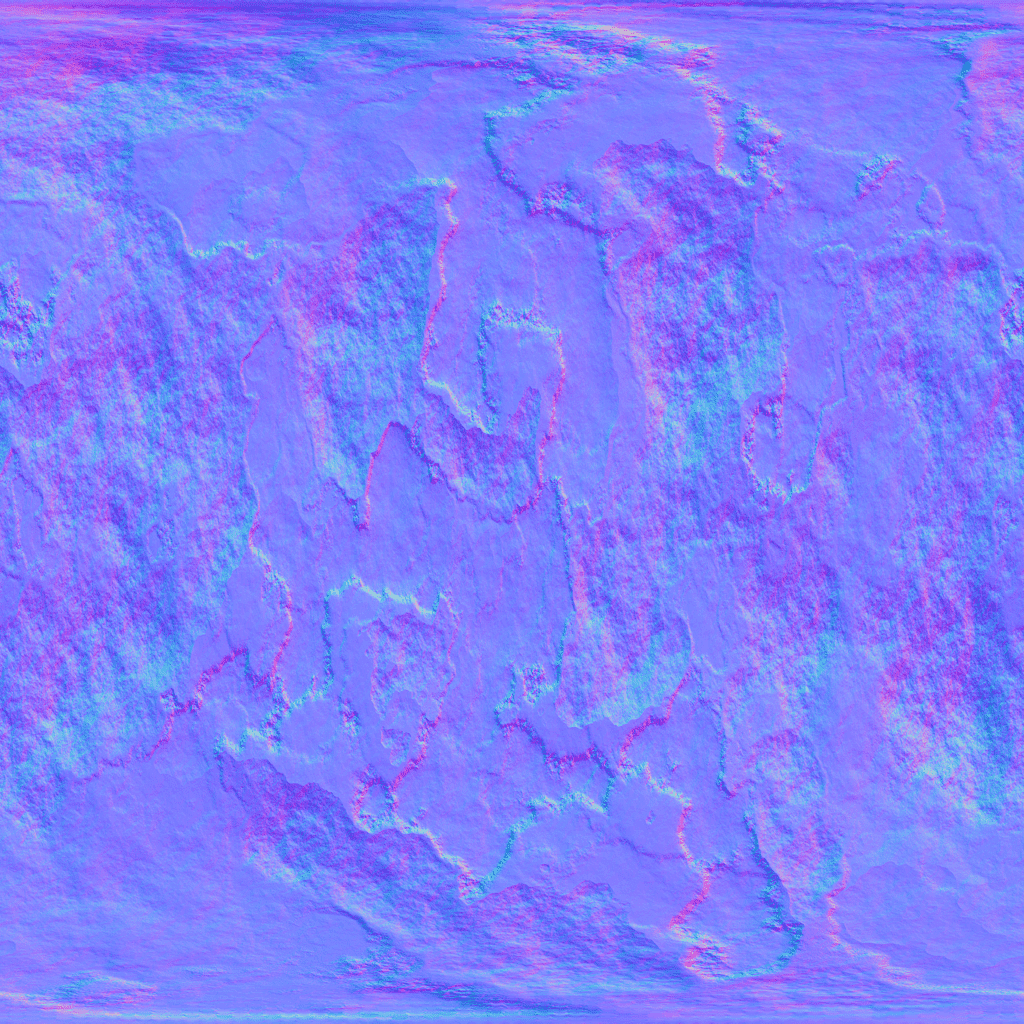
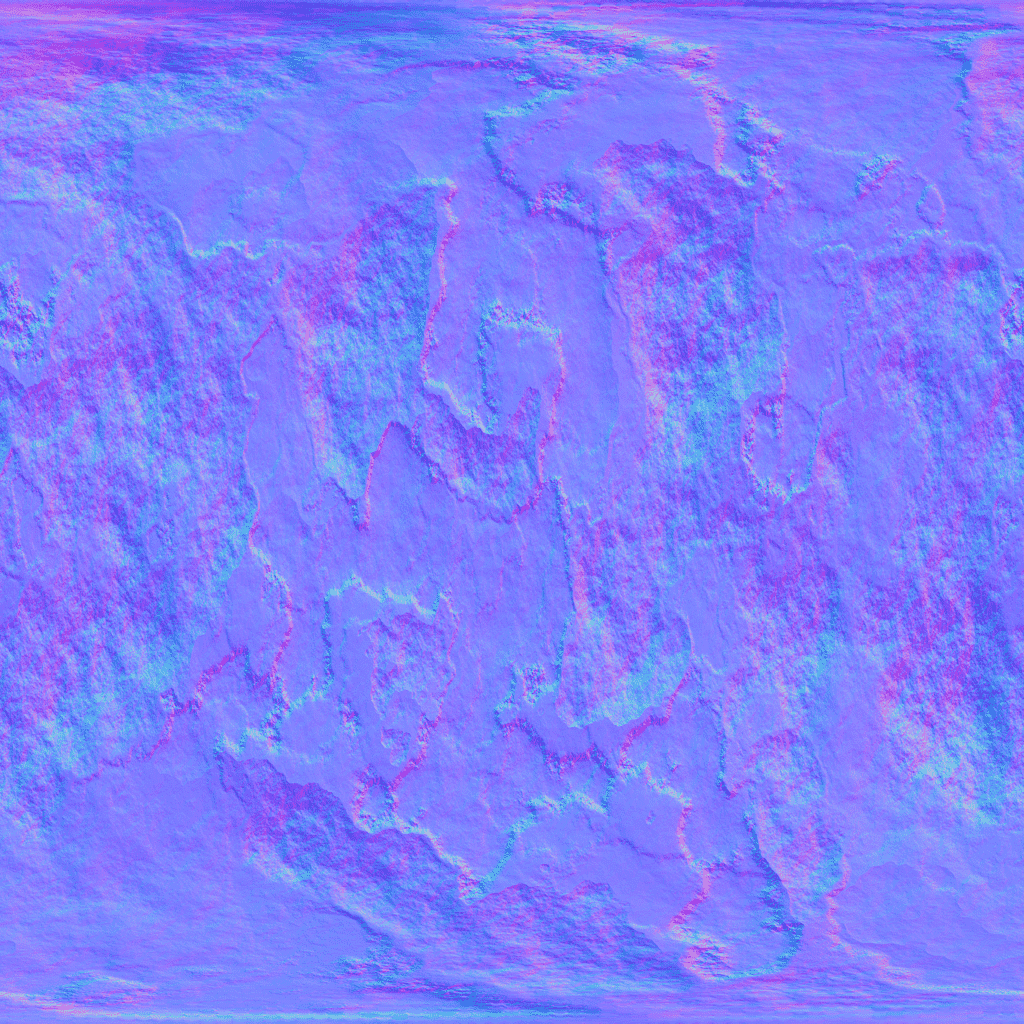
rendered new displacement map for Mun, optimised images, optimised Mun component, created blurhash generator

diff --git a/src/components/mun/index.js b/src/components/mun/index.js
@@ -1,5 +1,6 @@
 import {
 	useState,
+	useCallback,
 	useEffect,
 	useRef,
 } from "preact/hooks"
@@ -7,10 +8,14 @@ import {
 import cn from "classnames"
 import style from "./style"
 
-const Mun = () => {
+const Mun = ({altStyle=false}) => {
+	const [visible, setVisible] = useState(-2)
+	const updateVisibility = useCallback(() => {
+		setVisible(visible+1)
+	}, [visible])
 	const	textureLoader = new THREE.TextureLoader()
-	const normal = textureLoader.load("assets/images/mun_n_original.png")
-	const bump = textureLoader.load("assets/images/mun_b_original.png")
+	const normal = textureLoader.load("assets/images/mun_n.png", updateVisibility())
+	const bump = textureLoader.load("assets/images/mun_d.png", updateVisibility())
 
 	const container = useRef(null)
 	let mun, scene, camera, renderer
@@ -31,21 +36,21 @@ const Mun = () => {
 			antialias: true,
 			alpha: true,
 		})
-		// renderer.shadowMap.enabled = true
-		// renderer.shadowMap.type = THREE.PCFSoftShadowMap
+		renderer.shadowMap.enabled = true
+		renderer.shadowMap.type = THREE.PCFSoftShadowMap
 		renderer.toneMapping = THREE.ACESFilmicToneMapping
 
 		renderer.setSize(400, 400)
 
-		const light1 = new THREE.SpotLight(0xffffff, 5, 800, Math.PI/4, 1)
-		light1.position.set(-300, 0, 400)
-		// light1.castShadow = true
-		scene.add(light1)
+		const key = new THREE.SpotLight(0xffffff, 8, 800, Math.PI/6, 0.2)
+		key.position.set(-300, 0, 400)
+		key.castShadow = true
+		scene.add(key)
 
-		const light2 = new THREE.SpotLight(0xffffff, 5, 500, Math.PI/4, 1)
-		light2.position.set(400, 0, -200)
-		// light2.castShadow = true
-		scene.add(light2)
+		const rim = new THREE.SpotLight(0xffffff, 8, 500, Math.PI/6, 0.1)
+		rim.position.set(400, 0, -200)
+		rim.castShadow = true
+		scene.add(rim)
 
 		container.current.appendChild(renderer.domElement)
 	}
@@ -55,18 +60,18 @@ const Mun = () => {
 			new THREE.SphereGeometry(200, 128, 64),
 			new THREE.MeshStandardMaterial({
 				color: 0xfffdfa,
-				roughness: 0.9,
-				metalness: 0.6,
+				roughness: 0.75,
+				metalness: 0.1,
 
 				displacementMap: bump,
-				displacementScale: 10,
+				displacementScale: -40,
+				displacementBias: 0,
 
 				normalMap: normal,
-				normalScale: new THREE.Vector2(0.5),
 			})
 		)
-		// mun.castShadow = true
-		// mun.receiveShadow = true
+		mun.castShadow = true
+		mun.receiveShadow = true
 		scene.add(mun)
 	}
 
@@ -74,6 +79,7 @@ const Mun = () => {
 		requestAnimationFrame(update)
 
 		mun.rotation.y -= 0.001
+		mun.rotation.z -= 0.0005
 
 		renderer.render(scene, camera)
 	}
@@ -81,7 +87,10 @@ const Mun = () => {
 	return (
 		<div
 			ref={container}
-			class={cn(style.mun, style.visible)}
+			class={cn(style.mun, {
+				[style.visible]: visible === 0,
+				[style.dark]: altStyle,
+			})}
 			/>
 	)
 }

diff --git a/blurhash.js b/blurhash.js
@@ -1,0 +1,63 @@
+const path = require("path")
+const fs = require("fs")
+const PNG = require("pngjs").PNG
+const {
+	createCanvas,
+	loadImage
+} = require("canvas")
+const {
+	encode,
+	isBlurhashValid,
+} = require("blurhash")
+
+const findFiles = (filepath, filter, callback) => {
+	if (!fs.existsSync(filepath)) {
+		console.error("ERROR: no dir", filepath)
+		return
+	}
+
+	const files = fs.readdirSync(filepath)
+	files.forEach(f => {
+		const filename = path.join(filepath, f)
+		const stat = fs.lstatSync(filename)
+
+		if (stat.isDirectory()) {
+			findFiles(filename, filter, callback)
+		}
+		else if (filter.test(filename)) callback(filename)
+	})
+}
+
+const getImageData = async filepath => {
+	const file = fs.readFileSync(filepath)
+	const png = new PNG.sync.read(file)
+
+	const image = await loadImage(filepath)
+	const {height, width} = png
+
+	const canvas = createCanvas(width, height)
+	const context = canvas.getContext("2d")
+	context.drawImage(image, 0, 0)
+	return context.getImageData(0, 0, width, height)
+}
+
+const blurhash = ({data, width, height}) => encode(data, width, height, 4, 4) 
+
+let searchpath
+if(!process.argv[2]) {
+	console.error("no searchpath found, exiting")
+	return
+} else searchpath = process.argv[2]
+
+let filter 
+if(!process.argv[3]) {
+	console.error("no filter found, defaulting to /\.png/")
+	filter = /\.png$/
+} else filter = process.argv[3]
+
+findFiles(searchpath, filter, async f => {
+ 	const data = await getImageData(f)
+	const blur = blurhash(data)
+
+	console.log(f, isBlurhashValid(blur).result ? blur : "ERROR!")
+})

diff --git a/src/routes/home/index.js b/src/routes/home/index.js
@@ -60,7 +60,7 @@ const Home = ({projects, getProjects, page, handleSidebar}) => {
 					>
 					what i do
 				</a>
-				<Mun />
+				<Mun altStyle />
 			</section>
 			<section id="story" class={cn(style.section, style.dark)}>
 				<div class={style.story}>
